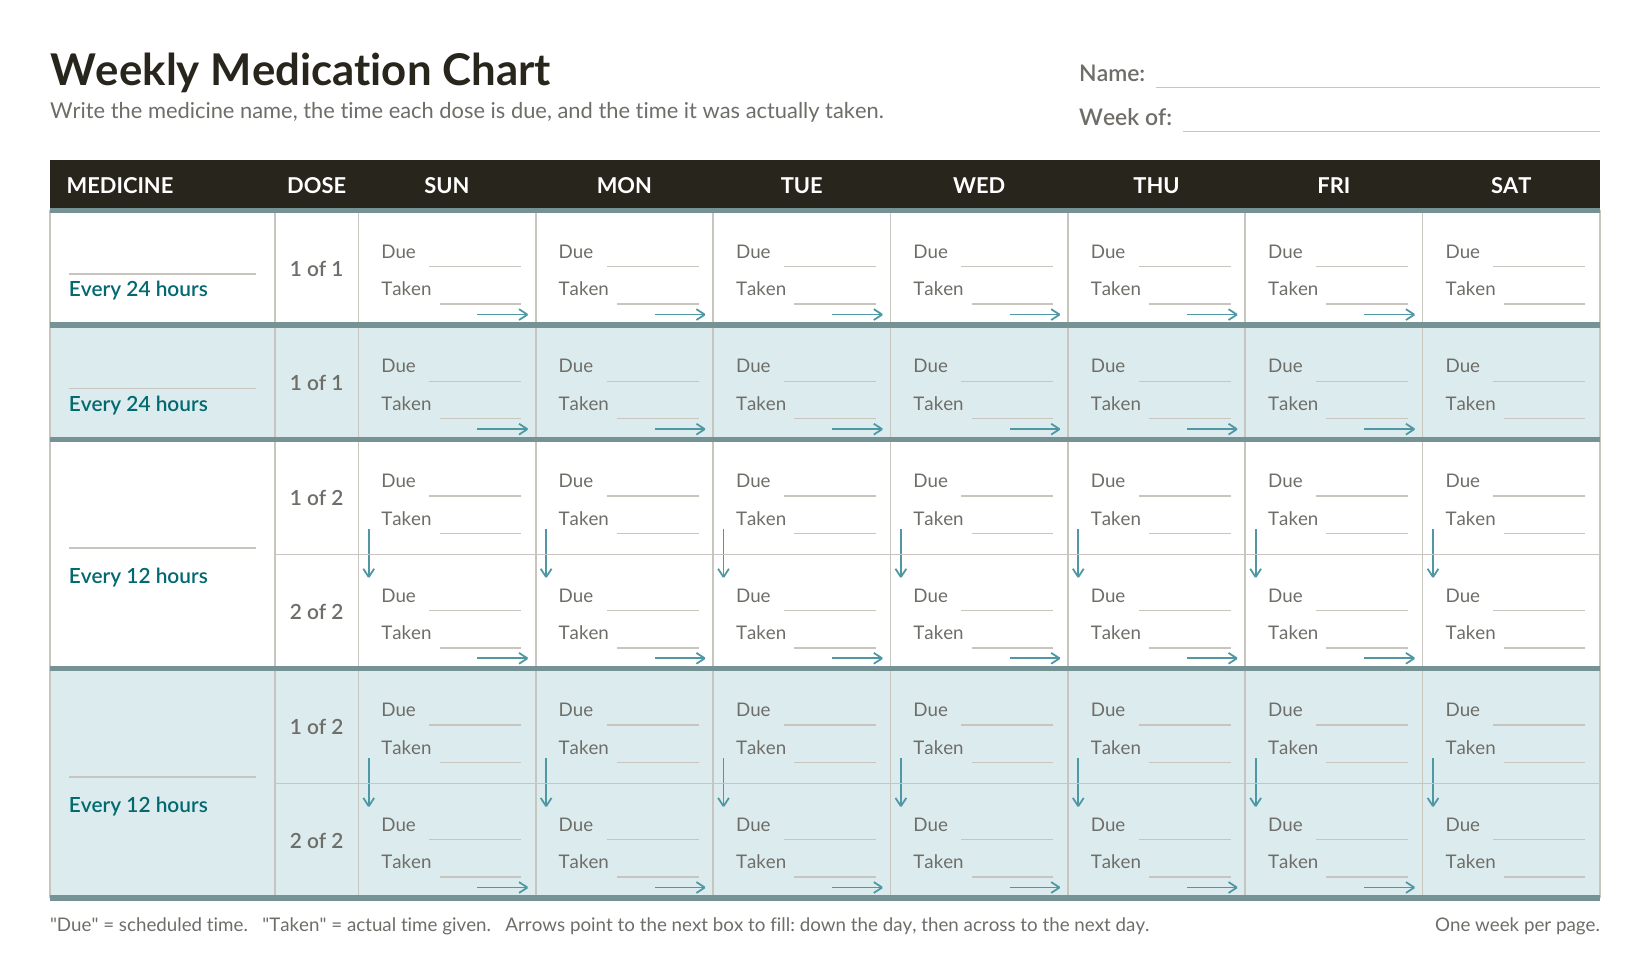
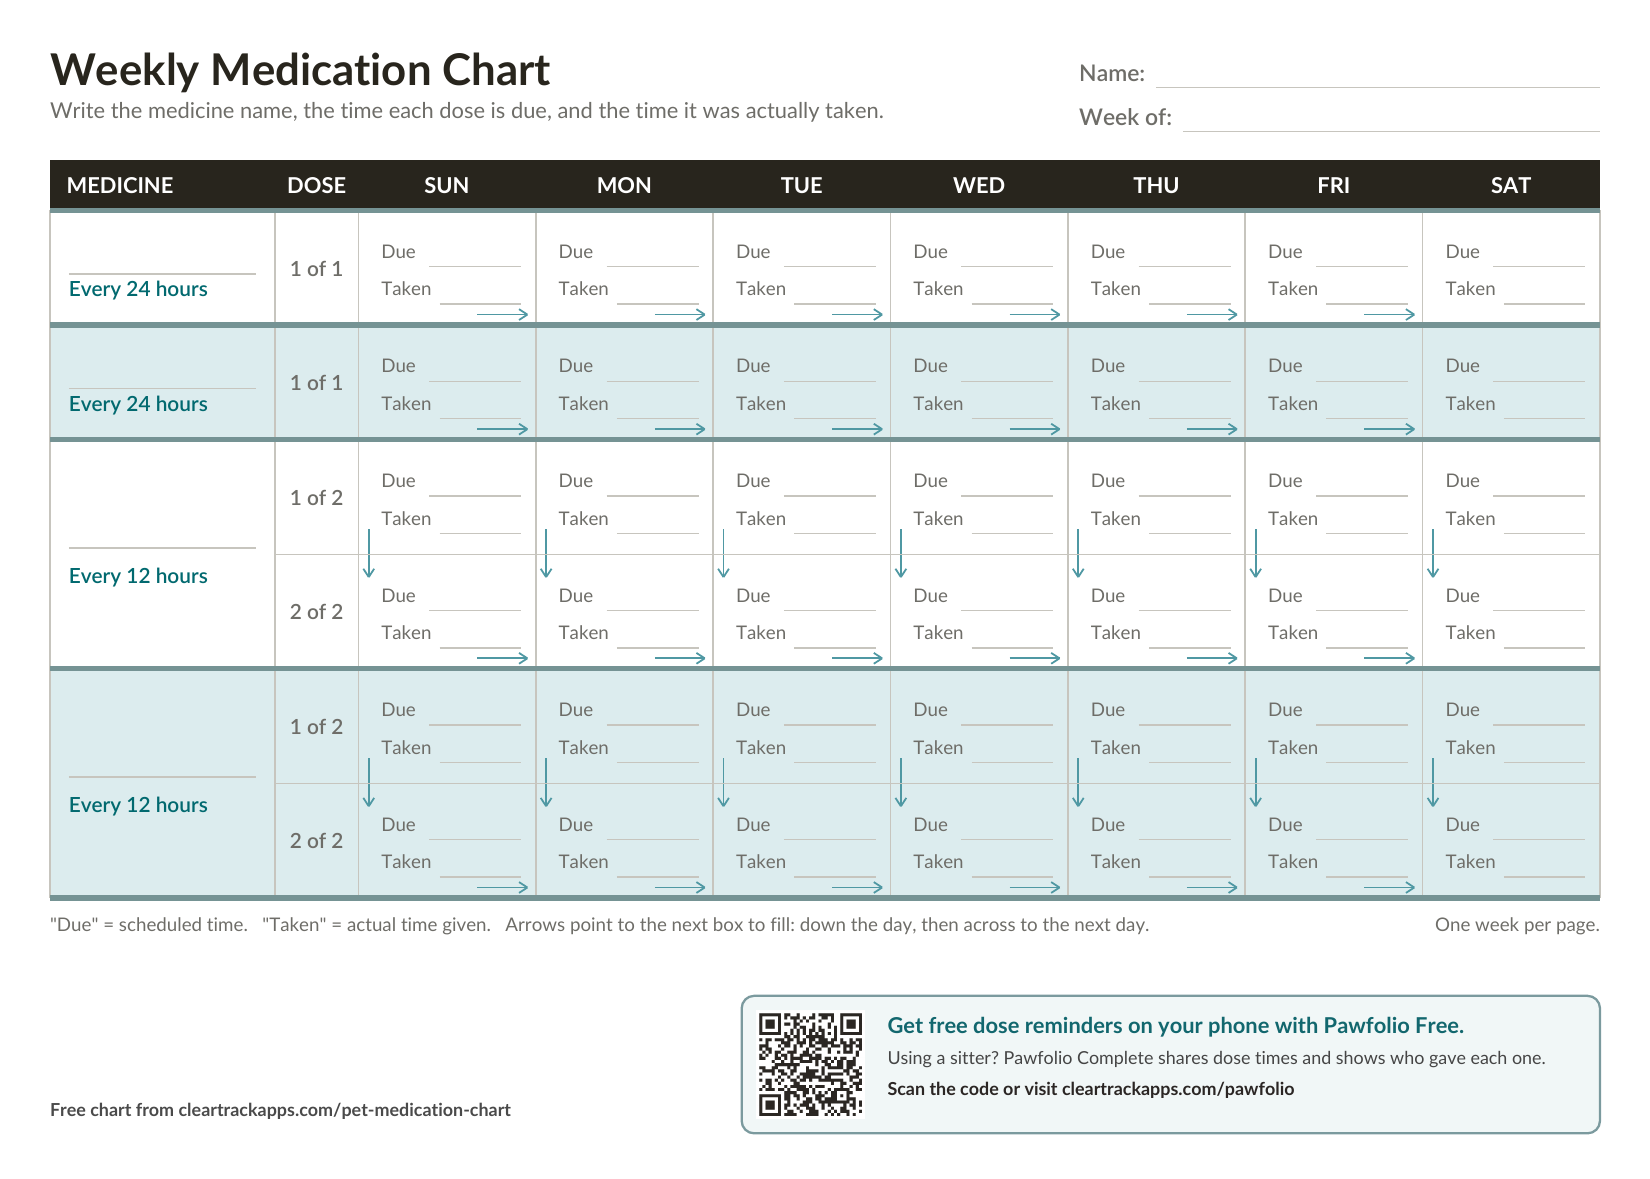
Medication chart: ready-made chart picture shows the full page with the Pawfolio note

diff --git a/pet-medication-chart/index.html b/pet-medication-chart/index.html
@@ -250,7 +250,7 @@
       <h2 class="ps-h2" id="dl-h" style="margin-inline:auto;text-align:center">Or download the ready-made chart</h2>
       <p class="ps-sub" style="margin-inline:auto;text-align:center">Two once-a-day sections and two every-12-hours sections, Sunday through Saturday.</p>
       <figure class="chart-fig">
-        <a href="pet-medication-chart.pdf" target="_blank" rel="noopener"><img src="chart-preview.png" width="1650" height="960" loading="lazy"
+        <a href="pet-medication-chart.pdf" target="_blank" rel="noopener"><img src="chart-preview.png" width="1650" height="1179" loading="lazy"
           alt="Weekly medication chart with two every-24-hours sections and two every-12-hours sections, Sunday through Saturday, with Due and Taken lines for each dose"></a>
       </figure>
       <div class="dls" id="downloads">

diff --git a/build_medchart.py b/build_medchart.py
@@ -226,7 +226,7 @@ PAGE = f'''<!DOCTYPE html>
       <h2 class="ps-h2" id="dl-h" style="margin-inline:auto;text-align:center">Or download the ready-made chart</h2>
       <p class="ps-sub" style="margin-inline:auto;text-align:center">Two once-a-day sections and two every-12-hours sections, Sunday through Saturday.</p>
       <figure class="chart-fig">
-        <a href="pet-medication-chart.pdf" target="_blank" rel="noopener"><img src="chart-preview.png" width="1650" height="960" loading="lazy"
+        <a href="pet-medication-chart.pdf" target="_blank" rel="noopener"><img src="chart-preview.png" width="1650" height="1179" loading="lazy"
           alt="Weekly medication chart with two every-24-hours sections and two every-12-hours sections, Sunday through Saturday, with Due and Taken lines for each dose"></a>
       </figure>
       <div class="dls" id="downloads">
